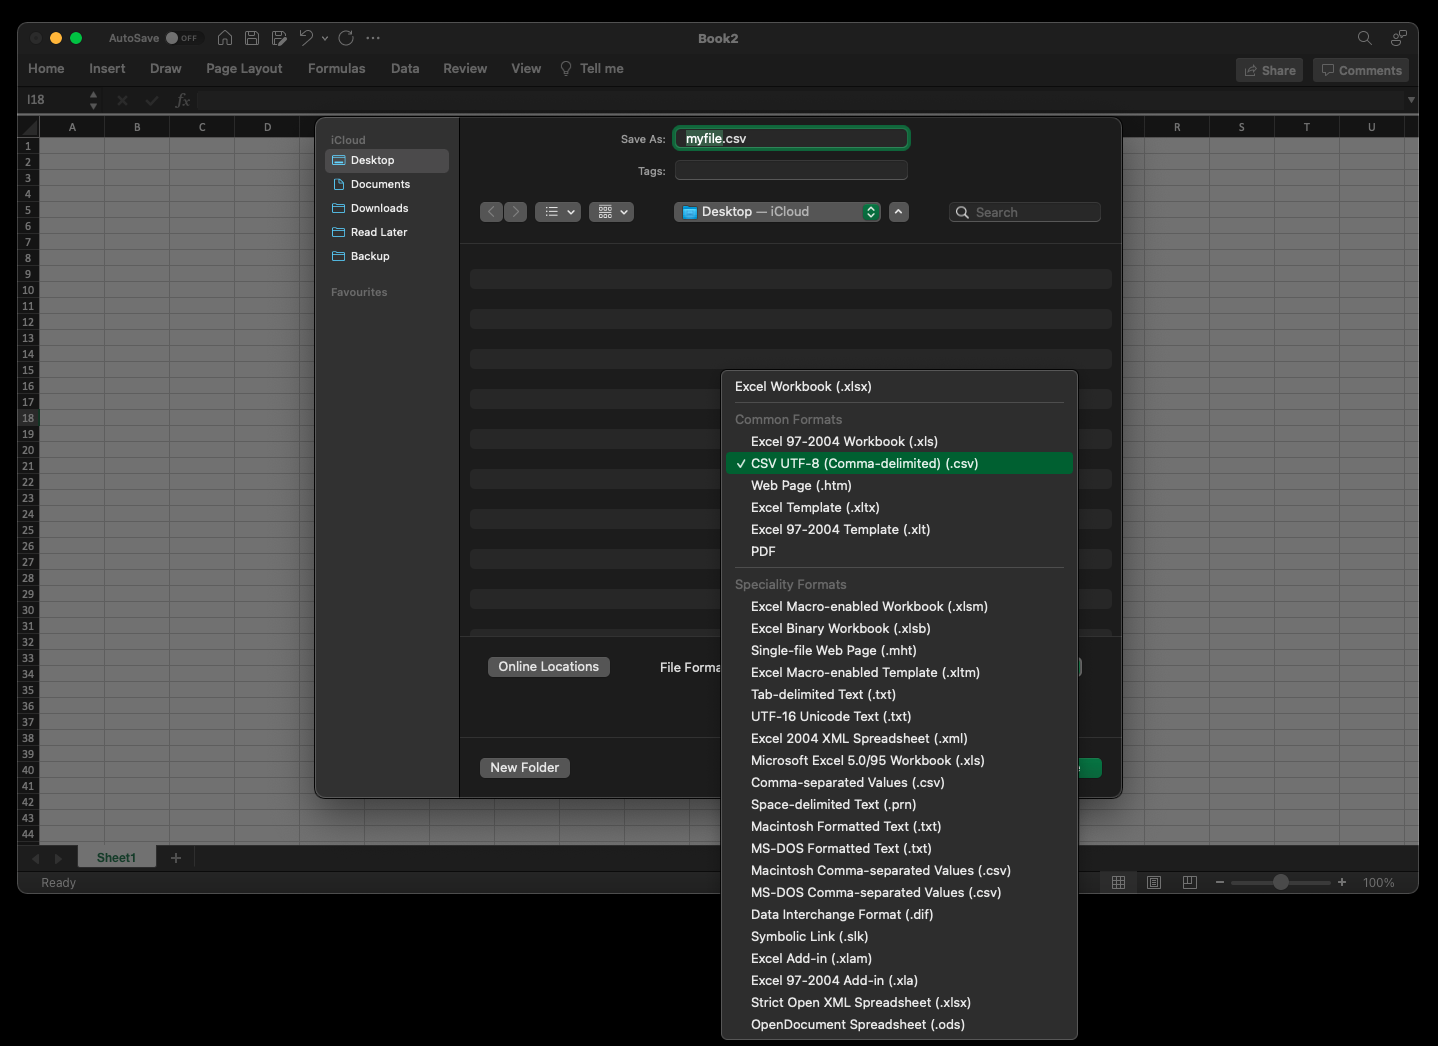
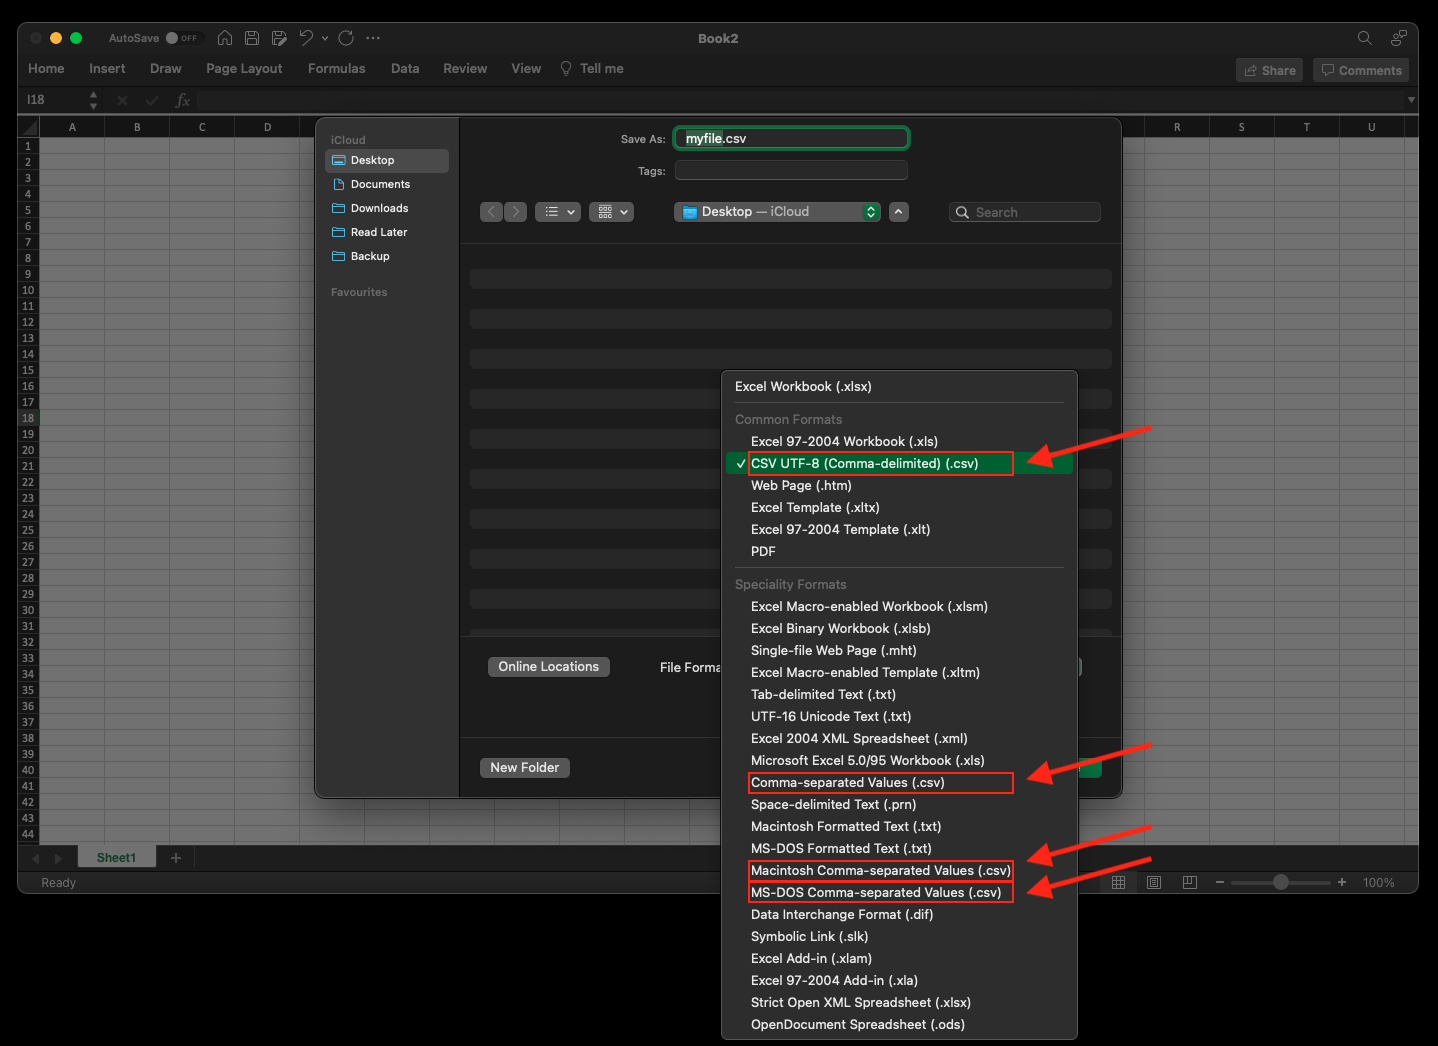
Intermediate: JSON #time 15m

diff --git a/stdlib/unpacking/assignments/function_parameter_syntax_c.py b/stdlib/unpacking/assignments/function_parameter_syntax_c.py
@@ -6,20 +6,16 @@
 * Warning: This assignment will work only in Python 3.8+
 
 English:
-    1. Create function `take_damage`
-    2. Function takes one argument `dmg` and always returns `None`
-    3. Argument must be passed only as positional
-    4. Test function by running with positional arguments
-    5. Test function by running with keyword arguments
-    6. Run doctests - all must succeed
+    1. Create function `compute`
+    2. Function takes 4 arguments `a, b, c, func` and always returns `None`
+    3. Arguments `a, b, c` must be passed only as positional, and `func` as keyword
+    4. Run doctests - all must succeed
 
 Polish:
-    1. Stwórz funkcję `take_damage`
-    2. Funkcja przyjmuje jeden argument `dmg` i zawsze zwraca `None`
-    3. Argument można podawać tylko pozycyjnie
-    4. Przetestuj funkcję uruchamiając z pozycyjnymi parametrami
-    5. Przetestuj funkcję uruchamiając z nazwanymi parametrami
-    6. Uruchom doctesty - wszystkie muszą się powieść
+    1. Stwórz funkcję `compute`
+    2. Funkcja przyjmuje cztery argumenty `a, b, c, func` i zawsze zwraca `None`
+    3. Argumenty `a, b, c` można podawać pozycyjnie, a `func` keyword
+    4. Uruchom doctesty - wszystkie muszą się powieść
 
 Tests:
     >>> import sys; sys.tracebacklimit = 0

diff --git a/stdlib/csv/assignments/csv_dictreader_a.py b/stdlib/csv/assignments/csv_dictreader_a.py
@@ -1,7 +1,7 @@
 """
 * Assignment: CSV DictReader Iris
 * Complexity: easy
-* Lines of code: 10 lines
+* Lines of code: 5 lines
 * Time: 8 min
 
 English:
@@ -39,15 +39,18 @@ Tests:
     >>> remove(FILE)
 """
 
-FILE = r'_temporary.csv'
+import csv
 
-FIELDNAMES = ['Sepal Length', 'Sepal Width',
-              'Petal Length', 'Petal Width', 'Species']
 
 DATA = """sepal_length,sepal_width,petal_length,petal_width,species
 5.8,2.7,5.1,1.9,virginica
 5.1,3.5,1.4,0.2,setosa
 5.7,2.8,4.1,1.3,versicolor"""
+
+FIELDNAMES = ['Sepal Length', 'Sepal Width',
+              'Petal Length', 'Petal Width', 'Species']
+
+FILE = r'_temporary.csv'
 
 with open(FILE, mode='w') as file:
     file.write(DATA)
@@ -55,12 +58,10 @@ with open(FILE, mode='w') as file:
 result: list = []
 
 # Solution
-from csv import DictReader, QUOTE_NONE
-
 with open(FILE) as file:
     header = file.readline()
-    data = DictReader(file, fieldnames=FIELDNAMES,
-                      delimiter=',', quoting=QUOTE_NONE)
+    data = csv.DictReader(file, fieldnames=FIELDNAMES,
+                          delimiter=',', quoting=csv.QUOTE_NONE)
 
     for row in data:
         result.append(row)

diff --git a/stdlib/csv/assignments/csv_dictwriter_a.py b/stdlib/csv/assignments/csv_dictwriter_a.py
@@ -1,7 +1,7 @@
 """
 * Assignment: CSV DictWriter Fixed
 * Complexity: easy
-* Lines of code: 10 lines
+* Lines of code: 4 lines
 * Time: 8 min
 
 English:
@@ -45,8 +45,8 @@ Tests:
     >>> from os import remove
     >>> remove(FILE)
 """
+import csv
 
-FILE = r'_temporary.csv'
 
 DATA = [{'firstname': 'Jan', 'lastname': 'Twardowski'},
         {'firstname': 'Rick', 'lastname': 'Martinez'},
@@ -54,13 +54,13 @@ DATA = [{'firstname': 'Jan', 'lastname': 'Twardowski'},
         {'firstname': 'Ivan', 'lastname': 'Ivanovic'},
         {'firstname': 'Melissa', 'lastname': 'Lewis'}]
 
-# Solution
-from csv import DictWriter, QUOTE_ALL
+FILE = r'_temporary.csv'
 
+# Solution
 with open(FILE, mode='w') as file:
-    data = DictWriter(file, fieldnames=['firstname', 'lastname'],
-                      delimiter=',', quotechar='"', quoting=QUOTE_ALL,
-                      lineterminator='\n')
+    data = csv.DictWriter(file, fieldnames=['firstname', 'lastname'],
+                          delimiter=',', quotechar='"', quoting=csv.QUOTE_ALL,
+                          lineterminator='\n')
 
     data.writeheader()
     data.writerows(DATA)

diff --git a/stdlib/csv/assignments/csv_dictwriter_b.py b/stdlib/csv/assignments/csv_dictwriter_b.py
@@ -45,10 +45,8 @@ Tests:
     >>> from os import remove
     >>> remove(FILE)
 """
-from csv import DictWriter, QUOTE_ALL
+import csv
 
-
-FILE = r'_temporary.csv'
 
 DATA = [{'Sepal length': 5.1, 'Sepal width': 3.5, 'Species': 'setosa'},
         {'Petal length': 4.1, 'Petal width': 1.3, 'Species': 'versicolor'},
@@ -57,13 +55,16 @@ DATA = [{'Sepal length': 5.1, 'Sepal width': 3.5, 'Species': 'setosa'},
         {'Sepal width': 2.8, 'Petal length': 4.1, 'Species': 'versicolor'},
         {'Sepal width': 2.9, 'Petal width': 1.8, 'Species': 'virginica'}]
 
+FILE = r'_temporary.csv'
+
 # Solution
 fieldnames = set()
 for row in DATA:
     fieldnames.update(row.keys())
 
 with open(FILE, mode='w', encoding='utf-8') as file:
-    data = DictWriter(f=file, fieldnames=sorted(fieldnames), delimiter=',',
-                      quotechar='"', quoting=QUOTE_ALL, lineterminator='\n')
+    data = csv.DictWriter(f=file, fieldnames=sorted(fieldnames), delimiter=',',
+                          quotechar='"', quoting=csv.QUOTE_ALL,
+                          lineterminator='\n')
     data.writeheader()
     data.writerows(DATA)

diff --git a/stdlib/csv/assignments/csv_relations_a.py b/stdlib/csv/assignments/csv_relations_a.py
@@ -49,9 +49,7 @@ Tests:
     >>> remove(FILE)
 """
 
-from csv import DictWriter, QUOTE_ALL
-
-FILE = r'_temporary.csv'
+import csv
 
 
 class Astronaut:
@@ -78,14 +76,13 @@ CREW = [
     Astronaut('Rick', 'Martinez', missions=[]),
 ]
 
-result: list = []
-
+FILE = r'_temporary.csv'
 
 result: list = []
 
 # Solution
-for member in CREW:
-    astronaut = vars(member)
+for astronaut in CREW:
+    astronaut = vars(astronaut)
     missions = [','.join(str(x) for x in vars(mission).values())
                 for mission in astronaut.pop('missions')]
     astronaut['missions'] = ';'.join(missions)
@@ -101,6 +98,6 @@ for member in CREW:
 fieldnames = sorted(result[0].keys())
 
 with open(FILE, mode='w') as file:
-    writer = DictWriter(file, fieldnames=fieldnames, quoting=QUOTE_ALL)
+    writer = csv.DictWriter(file, fieldnames=fieldnames, quoting=csv.QUOTE_ALL)
     writer.writeheader()
     writer.writerows(result)

diff --git a/stdlib/csv/assignments/csv_dictwriter_c.py b/stdlib/csv/assignments/csv_dictwriter_c.py
@@ -41,7 +41,7 @@ Tests:
     >>> remove(FILE)
 """
 
-from csv import DictWriter
+import csv
 
 
 class Iris:
@@ -54,8 +54,6 @@ class Iris:
         self.species = species
 
 
-FILE = r'_temporary.txt'
-
 DATA = [Iris(5.1, 3.5, 1.4, 0.2, 'setosa'),
         Iris(5.8, 2.7, 5.1, 1.9, 'virginica'),
         Iris(5.1, 3.5, 1.4, 0.2, 'setosa'),
@@ -63,11 +61,14 @@ DATA = [Iris(5.1, 3.5, 1.4, 0.2, 'setosa'),
         Iris(6.3, 2.9, 5.6, 1.8, 'virginica'),
         Iris(6.4, 3.2, 4.5, 1.5, 'versicolor')]
 
+FILE = r'_temporary.txt'
+
+
 # Solution
 data = [vars(iris) for iris in DATA]
-header = data[0].keys()
+header = list(data[0].keys())
 
 with open(FILE, mode='w', encoding='utf-8') as file:
-    writer = DictWriter(file, fieldnames=header)
+    writer = csv.DictWriter(file, fieldnames=header)
     writer.writeheader()
     writer.writerows(data)

diff --git a/stdlib/csv/assignments/csv_writer_a.py b/stdlib/csv/assignments/csv_writer_a.py
@@ -1,7 +1,7 @@
 """
 * Assignment: CSV Writer Iris
 * Complexity: easy
-* Lines of code: 4 lines
+* Lines of code: 3 lines
 * Time: 5 min
 
 English:
@@ -37,7 +37,8 @@ Tests:
     >>> remove(FILE)
 """
 
-FILE = r'_temporary.csv'
+import csv
+
 
 DATA = [
     ('Sepal length', 'Sepal width', 'Petal length', 'Petal width', 'Species'),
@@ -51,9 +52,9 @@ DATA = [
     (7.6, 3.0, 6.6, 2.1, 'virginica'),
     (4.9, 3.0, 1.4, 0.2, 'setosa')]
 
-# Solution
-from csv import writer
+FILE = r'_temporary.csv'
 
+# Solution
 with open(FILE, mode='w') as file:
-    data = writer(file, lineterminator='\n')
+    data = csv.writer(file, lineterminator='\n')
     data.writerows(DATA)

diff --git a/stdlib/csv/assignments/csv_reader_a.py b/stdlib/csv/assignments/csv_reader_a.py
@@ -30,12 +30,16 @@ Tests:
     >>> remove(FILE)
 """
 
-FILE = r'_temporary.csv'
+import csv
+
 
 DATA = """sepal_length,sepal_width,petal_length,petal_width,species
 5.8,2.7,5.1,1.9,virginica
 5.1,3.5,1.4,0.2,setosa
 5.7,2.8,4.1,1.3,versicolor"""
+
+FILE = r'_temporary.csv'
+
 
 with open(FILE, mode='w') as file:
     file.write(DATA)
@@ -44,10 +48,9 @@ with open(FILE, mode='w') as file:
 result = []
 
 # Solution
-from csv import reader
 
 
 with open(FILE, mode='r') as file:
-    data = reader(file, lineterminator='\n')
+    data = csv.reader(file, lineterminator='\n')
     for row in data:
         result.append(tuple(row))

diff --git a/stdlib/csv/standard.rst b/stdlib/csv/standard.rst
@@ -228,8 +228,6 @@ Encoding
     with open(FILE, encoding='utf-8') as file:
         ...
 
-.. figure:: img/csv-standard-dialects.png
-
 
 Dialects
 --------
@@ -242,6 +240,7 @@ Dialects
 
 * Microsoft Excel 2016-2020:
 
+    * ``quoting=csv.QUOTE_MINIMAL``
     * ``quotechar='"'``
     * ``delimiter=','``
     * ``lineterminator='\n'``
@@ -249,10 +248,56 @@ Dialects
 
 * Microsoft Excel macOS:
 
+    * ``quoting=csv.QUOTE_MINIMAL``
     * ``quotechar='"'``
     * ``delimiter=','``
     * ``lineterminator='\r\n'``
     * ``encoding='utf-8'``
+
+* Microsoft export options:
+
+.. figure:: img/csv-standard-dialects.png
+
+    .. code-block:: console
+
+        $ file utf8.csv
+        utf8.csv: CSV text
+
+        $ cat utf8.csv
+        Firstname,Lastname,Age,Comment
+        Mark,Watney,21,zażółć gęślą jaźń
+        Melissa,Lewis,21.5,"Some, comment"
+        ,,"21,5",Some; Comment
+
+    .. code-block:: console
+
+        $ file standard.csv
+        standard.csv: CSV text
+
+        $ cat standard.csv
+        Firstname,Lastname,Age,Comment
+        Mark,Watney,21,za_?__ g__l_ ja__
+        Melissa,Lewis,21.5,"Some, comment"
+        ,,"21,5",Some; Comment
+
+    .. code-block:: console
+
+        $ file dos.csv
+        dos.csv: CSV text
+
+        $ cat dos.csv
+        Firstname,Lastname,Age,Comment
+        Mark,Watney,21,za_?__ g__l_ ja__
+        Melissa,Lewis,21.5,"Some, comment"
+        ,,"21,5",Some; Comment
+
+    .. code-block:: console
+
+        $ file macintosh.csv
+        macintosh.csv: Non-ISO extended-ASCII text, with CR line terminators
+
+        $ cat macintosh.csv
+        ,,"21,5",Some; Comment
 
 
 Good Practices
